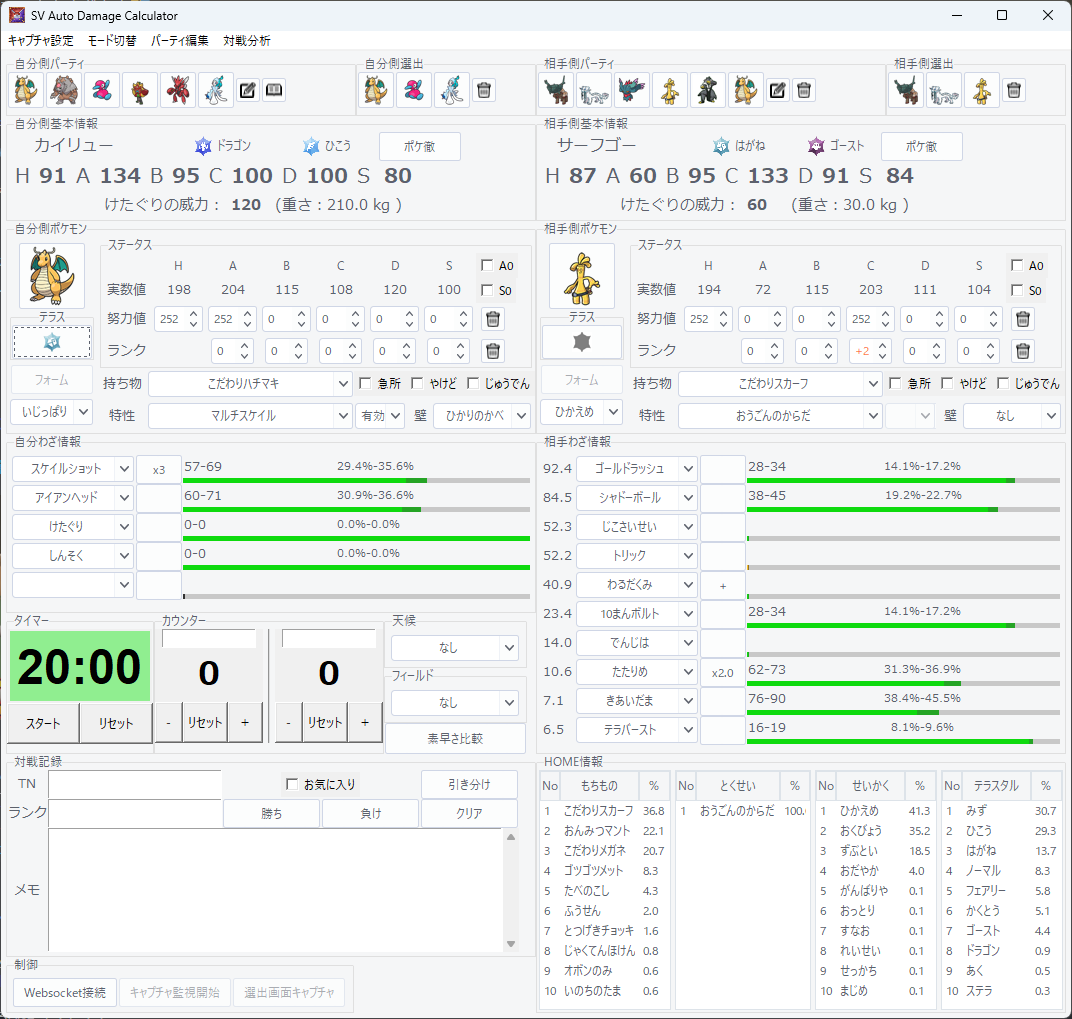
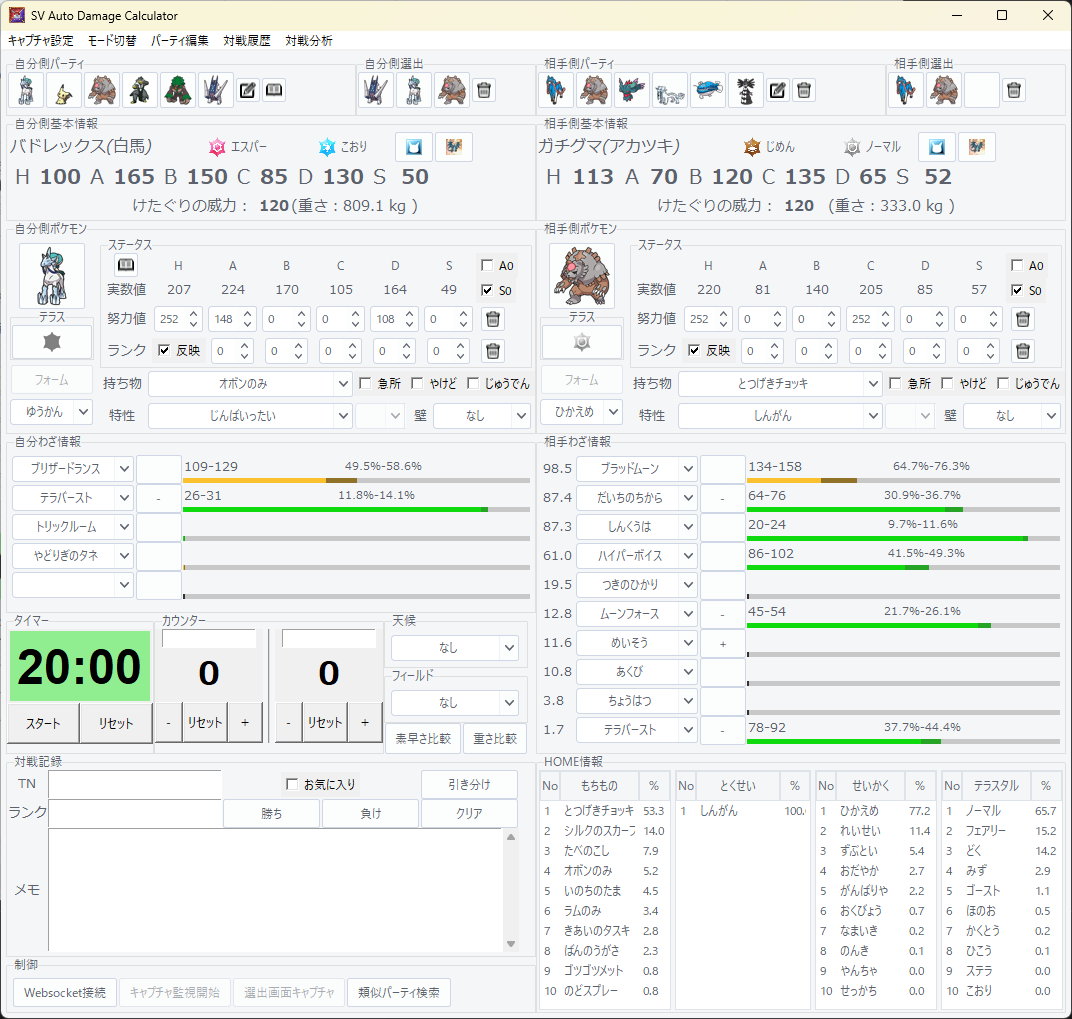
README追記

diff --git a/README.md b/README.md
@@ -96,6 +96,8 @@
 
 ### 重さ比較
 
+![重さ比較](/image/readme/weight.png)
+
 - ヘビーボンバーとヒートスタンプのダメージをポップアップで表示する
 - ダメージ計算にはすでに反映されている
 - 重さ情報に関しては、基本情報の欄にも表示される
@@ -139,10 +141,13 @@
 ### ポケモン登録・変更
 
 - アイコンボタンを押してダイアログからポケモンの情報を入力する
+  - Top100のポケモンが表示されるので、直接選択しても良い
 - それぞれの値を入力or選択
 - 努力値・個体値は最大-最小の選択か直接入力
 - 種族値・実数値は自動で表示
 - ゴミ箱ボタンを押すと削除できる
+- ノートアイコンを押すとポケモンのメモを入力できる（対戦中は確認不可）
+- 矢印ボタンを押すと並び替えができる
 
 ### パーティ保存
 
@@ -165,11 +170,38 @@
 
 - 使用率TOPのポケモンと自分のパーティの相性表テンプレートCSVを作成する
   - 何位まで反映させるかを選択できる
-  - tableフォルダにパーティの名前で保存される（パーティ名未設定の場合はundefined.csv）
+  - tableフォルダにパーティの名前で保存される
+    - パーティ名未設定の場合はundefined.csv
 
 ### 使用パーティ変更
 
 - 一番右のボタンから変更可能
+
+## 対戦履歴画面
+
+![対戦履歴画面](/image/readme/record.png)
+
+- 設定した期間の履歴を見ることができる
+- パーティごとに絞ることも可能
+- お気に入りのチェックを入れるとお気に入りのみ表示する
+
+## 対戦分析画面
+
+![対戦分析画面1](/image/readme/analysis.png)
+
+![対戦分析画面2](/image/readme/analysis_detail.png)
+
+- 設定した期間の分析を行うことができる
+- デフォルトで見られる内容
+  - 相手のKP、勝率
+  - 対戦数と勝率
+  - 直近使用したパーティ
+- 番号を絞ることで見られる内容
+  - 相手の選出率
+  - 相手の初手選出率
+- 連番を絞ることで見られる内容
+  - 自分の選出率
+  - 自分の初手選出率
 
 ## その他設定
 
@@ -191,3 +223,7 @@
   - 相手ポケモンの性格を変えた際に、どれに合わせた努力値に自動で変更する
 - 類似パーティ自動検索モード
   - 相手パーティキャプチャ時に類似パーティ検索を自動で行う
+- ぱにぱにツール自動起動モード
+  - ぱにぱにツールの機能をONにする
+  - recog\outputImgに画像が出力されるので、OBSに配置する
+    - 詳細は本家参照
